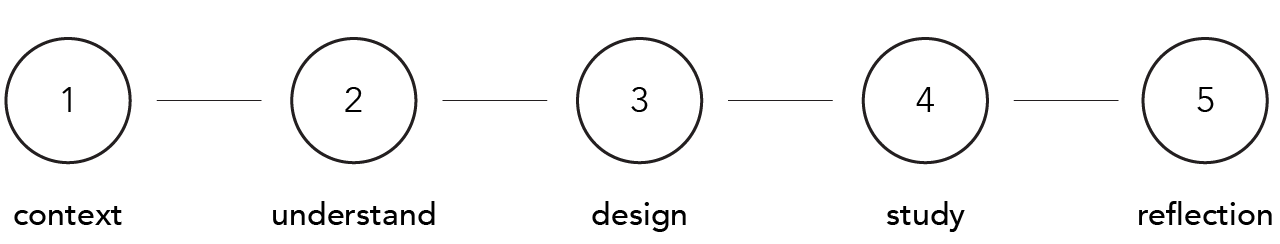
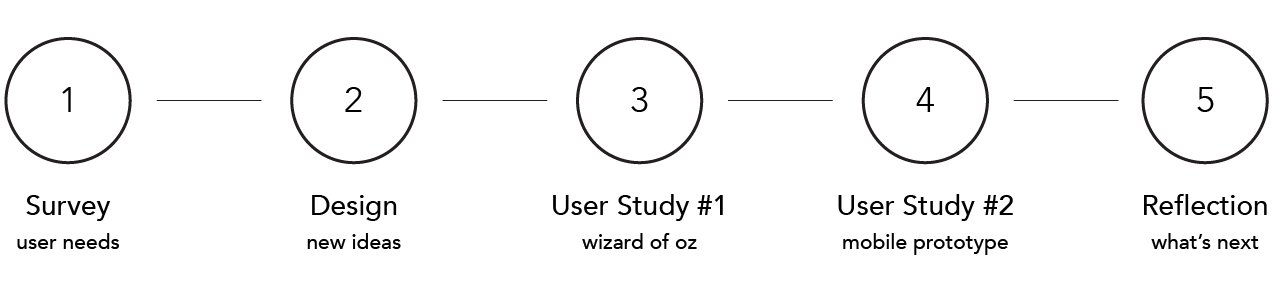
hide crescendo project to make the projects' topics are aligned

diff --git a/src/pages/projects/crescendo/CrescendoDetail.js b/src/pages/projects/crescendo/CrescendoDetail.js
@@ -81,10 +81,10 @@ const CrescendoDetail = () => {
         <div className={styles.sidebar}>
             <ul>
                 <li><a href="#overview" className={activeSection === 'overview' ? styles.active : ''}>0 - overview</a></li>
-                <li><a href="#research" className={activeSection === 'research' ? styles.active : ''}>1 - context</a></li>
-                <li><a href="#empathize" className={activeSection === 'empathize' ? styles.active : ''}>2 - understand</a></li>
-                <li><a href="#design" className={activeSection === 'design' ? styles.active : ''}>3 - design</a></li>
-                <li><a href="#test" className={activeSection === 'test' ? styles.active : ''}>4 - study</a></li>
+                <li><a href="#research" className={activeSection === 'research' ? styles.active : ''}>1 - survey</a></li>
+                <li><a href="#empathize" className={activeSection === 'empathize' ? styles.active : ''}>2 - design</a></li>
+                <li><a href="#design" className={activeSection === 'design' ? styles.active : ''}>3 - user study #1</a></li>
+                <li><a href="#test" className={activeSection === 'test' ? styles.active : ''}>4 - user study #2</a></li>
                 <li><a href="#takeaways" className={activeSection === 'takeaways' ? styles.active : ''}>5 - reflection</a></li>
             </ul>
         </div>
@@ -95,98 +95,72 @@ const CrescendoDetail = () => {
               <div className={styles.overviewContainer}>
                 <div>
                   <h2>Overview</h2>
-                  <p>With the massive proliferation of digital photos, new approaches are needed to enable people to engage with their vast photo archives over time and into the future. Chronoscope is a domestic technology that leverages temporal metadata embedded in digital photos as a resource to reorganize photos and present life patterns more clearly to encourage rich reflection on one's photo history.</p>
+                  <p>Messaging in human communication is not only a carrier of the sender’s intention but also interplay between anticipations on both sides if we see it as an experience-centered design issue. In contrast to using instant messages, we proposed a slow messaging app that progressively reveal messages over a period of time and observe people's reaction to it.</p>
                 </div>
                 <div>
                   <h2>Team</h2>
-                  <h6>Project Lead & Graphics, Software, Electronics</h6>Amy Yo Sue Chen
-                  <h6>Writing & Design Supervisor</h6>William Odom
-                  <h6>Writing Supervisor</h6>Carman Neustaedter
-                  <h6>3D Design & Data Analysis Assistant</h6>Ce Zhong
-                  <h6>Digital Fabrication & Electronics Assistant</h6>Henry Lin
-                  <h6>Electronics Assistant</h6>Tal Amram
+                  <h6>Project Lead & Research, Design, Software</h6>Amy Yo Sue Chen
+                  <h6>Writing & Design Supervisor</h6>Rung-Huei Liang
+                  <h6>Writing & Research Lead</h6>Joe Wen-Chieh Tsai
+                  <h6>Data Analysis Assistant</h6>Sheng-Yang Hsu
                 </div>
               </div>
               <div>
                 <h2>Contribution / Impact</h2>
                 <ul>
-                  <li>Creating innovative photo viewing experience to improve user engagement</li>
-                  <li>Using temporal metadata as design materials to trigger curious exploration of one’s life history</li>
-                  <li>5 research publications, including a journal article, a book chapter, and 3 papers on ACM CHI/DIS</li>
+                  <li>This research found a best level of progression that invites anticipation and curiosity.</li>
+                  <li>This messaging way offered a way to increase the quality of intimate communication.</li>
+                  <li>This work produced 2 research publications, including one with a <b>best paper award</b>.</li>
                 </ul>
+              </div>
+              <LazyLoadImage src={images.singles.messaging.src} alt={images.singles.messaging.alt} className={styles.contextImage} onClick={() => openLightbox(images.singles.messaging.src)} />
+              <h2>Research Context</h2>
+              <div className={styles.researchContainer}>
+                <div>
+                  <h3>Problem Statement</h3>
+                  <p>The fast and concise communication enabled by <b>instant messaging</b> has compelled individuals to convey their feelings and thoughts <b>promptly and respond 'in time'</b>, particularly for those communicating across long distances with timezone differences.</p>
+                </div>
+                <div>
+                  <h3>Research Goal</h3>
+                  <p>We aim to develop <b>new approaches to experiencing messaging systems</b> that enhance and support people's deep and intimate communication with each other.</p>
+                </div>
+              </div>
+              <div>
+                <h3>Qualitative Research Plan</h3>
+                <p>To achieve the research goal, we built a qualitative research plan to understand user needs, explore potential design ideas, and evaluate our new messaging design.</p>
+                <p>The whole plan can be broken down into 5 parts:</p>
+                <LazyLoadImage src={images.singles.imagePlan.src} alt={images.singles.imagePlan.alt} className={styles.planImage} onClick={() => openLightbox(images.singles.imagePlan.src)} />
+              </div>
+              <div className={styles.skillsContainer}>
+                <div>
+                  <h4>research methods</h4>
+                  <ul>
+                    <li>Survey / interview</li>
+                    <li>User testing / log analysis</li>
+                    <li>Inferential statistics / t-test</li>
+                  </ul>
+                </div>
+                <div>
+                  <h4>design tools</h4>
+                  <ul>
+                    <li>Sketch prototyping</li>
+                    <li>Zeplin</li>
+                    <li>Adobe Suite</li>
+                  </ul>
+                </div>
+                <div>
+                  <h4>software engineering</h4>
+                  <ul>
+                    <li>iOS dev (Obj-C/Swift)</li>
+                    <li>Automation Scripts in Adobe Suite</li>
+                  </ul>
+                </div>
               </div>
             </section>
             <section id="research" ref={sectionRefs.current.research}>
-                <CustomSwiper images={images.context} />
-                <h2>1 - Research Context</h2>
-                <div className={styles.researchContainer}>
-                  <div>
-                    <h3>Problem Statement</h3>
-                    <p>The adoption of smartphones over traditional cameras has catalyzed a hyper-accelerated growth of personal photo archives. As digital photos grow, <b>the placeless, spaceless, and formless nature</b> has made them <b>difficult for people to notice and engage</b>.</p>
-                  </div>
-                  <div>
-                    <h3>Research Goal</h3>
-                    <p>To counteract the challenges posed by the vast, often formless nature of digital photo archives, we aim to develop <b>innovative and open-ended interaction methods</b> that engage people to explore their continually expanding collections, fostering <b>a sense of curiosity and discovery</b>.</p>
-                  </div>
-                </div>
-                <div>
-                  <h3>Questions + Plan</h3>
-                  <p><i>Q1: How might meaningful experiences with personal digital photo archives be supported and sustained as they grow, expand, and age over time?</i></p>
-                  <p><i>Q2: What opportunities exist for metadata to be leveraged as a design resource that supports new ways of experiencing the trajectory of digital photos one has accumulated in their life?</i></p>
-                  <p>To answer these questions, we built a qualitative research plan to understand user needs and explore potential design ideas. Based on the research results, we kick started the Chronoscope design process.</p>
-                </div>
-                <div className={styles.skillsContainer}>
-                  <div>
-                    <h4>research methods</h4>
-                    <ul>
-                      <li>Contextual inquiry</li>
-                      <li>Field study / interview</li>
-                      <li>Affinity mapping</li>
-                    </ul>
-                  </div>
-                  <div>
-                    <h4>graphic design tools</h4>
-                    <ul>
-                      <li>Miro brainstorming</li>
-                      <li>Paper wireframing</li>
-                      <li>Adobe Suite</li>
-                    </ul>
-                  </div>
-                  <div>
-                    <h4>3D design tools</h4>
-                    <ul>
-                      <li>modeling with Rhino</li>
-                      <li>rendering with Keyshot</li>
-                      <li>printing with Ultimaker Cura</li>
-                    </ul>
-                  </div>
-                </div>
-                <div className={styles.skillsContainer}>
-                  <div>
-                    <h4>documentation</h4>
-                    <ul>
-                      <li>Google Suite</li>
-                      <li>Otter.ai</li>
-                      <li>Microsoft Word / LaTeX</li>
-                    </ul>
-                  </div>
-                  <div>
-                    <h4>electronics design</h4>
-                    <ul>
-                      <li>Arduino prototyping</li>
-                      <li>Raspberry Pi production</li>
-                      <li>PCB design (Frizting)</li>
-                    </ul>
-                  </div>
-                  <div>
-                    <h4>software engineering</h4>
-                    <ul>
-                      <li>prototyping in Obj-C / Swift</li>
-                      <li>Python production (PIL/Pillow, PyQt5, NumPy)</li>
-                    </ul>
-                  </div>
-                </div>
-                <LazyLoadImage src={images.singles.imagePlan.src} alt={images.singles.imagePlan.alt} className={styles.planImage} onClick={() => openLightbox(images.singles.imagePlan.src)} />
+              <LazyLoadImage src={images.singles.imageInquiry.src} alt={images.singles.imageInquiry.alt} className={styles.focusGroupImage} onClick={() => openLightbox(images.singles.imageInquiry.src)} />
+              <h2>1 - Survey for People's Interest in Slow Messaging</h2>
+
             </section>
             <section id="empathize" ref={sectionRefs.current.empathize}>
                 <LazyLoadImage src={images.singles.imageInquiry.src} alt={images.singles.imageInquiry.alt} className={styles.focusGroupImage} onClick={() => openLightbox(images.singles.imageInquiry.src)} />

diff --git a/src/pages/projectListData.js b/src/pages/projectListData.js
@@ -24,13 +24,13 @@ const projectsData = [
     linkPath: '/projects/chronoscope',
     tags: ['photos', 'tangible', 'field study', 'all'],
   },
-  {
-    title: 'CrescendoMessage',
-    description: 'Investigating new forms of photo sharing between loved ones with an aim to enrich intimate communication.',
-    imageUrl: image3,
-    linkPath: '/projects/crescendo',
-    tags: ['photos', 'mobile', 'field study', 'messaging', 'all'],
-  },
+  // {
+  //   title: 'CrescendoMessage',
+  //   description: 'Investigating new forms of photo sharing between loved ones with an aim to enrich intimate communication.',
+  //   imageUrl: image3,
+  //   linkPath: '/projects/crescendo',
+  //   tags: ['photos', 'mobile', 'field study', 'messaging', 'all'],
+  // },
   {
     title: 'Womany',
     description: 'Unlocking self-growth and creativity: the news app redesigned for readers interested in gender equality.',
@@ -66,13 +66,13 @@ const projectsData = [
     linkPath: '/projects/olly',
     tags: ['audio', 'tangible', 'field study', 'all'],
   },
-  {
-    title: 'Slow Game',
-    description: 'Conceptualizing time alternatively by playing the Snake game one step every 18 hours.',
-    imageUrl: image9,
-    linkPath: '/projects/slow-game',
-    tags: ['temporality', 'tangible', 'research through design', 'all'],
-  }
+  // {
+  //   title: 'Slow Game',
+  //   description: 'Conceptualizing time alternatively by playing the Snake game one step every 18 hours.',
+  //   imageUrl: image9,
+  //   linkPath: '/projects/slow-game',
+  //   tags: ['temporality', 'tangible', 'research through design', 'all'],
+  // }
 ];
 
 export default projectsData;

diff --git a/src/pages/projects/crescendo/CrescendoImages.js b/src/pages/projects/crescendo/CrescendoImages.js
@@ -1,12 +1,13 @@
-import imageProject from './img/Fig1.png'
+import imageProject from './img/1.jpg'
+import imageMessaging from './img/messaging.jpg'
 import imagePlan from './img/plan.png'
 import imageInquiry from './img/inquiry.png'
 import imageMiro from './img/Fig1a.jpg'
 import imageForm from './img/form.png'
 
-import context1 from './img/context1.jpg'
+import context1 from './img/crystalized.gif'
 import context2 from './img/context2.jpg'
-import context3 from './img/context3.gif'
+import context3 from './img/context1.jpg'
 
 import ideation0 from './img/home.png'
 import ideation1 from './img/pinterest.png'
@@ -51,6 +52,7 @@ const images = {
 
   singles: {
     imageProject:    { src: imageProject, alt: 'PhotoClock Design' },
+    messaging:       { src: imageMessaging, alt: 'instant messaging'},
     imagePlan:       { src: imagePlan, alt: 'PhotoClock Design' },
     imageInquiry:    { src: imageInquiry, alt: 'PhotoClock Use Scenario' },
     imageMiro:       { src: imageMiro, alt: 'PhotoClock Use Scenario' },

diff --git a/src/pages/Projects.js b/src/pages/Projects.js
@@ -82,7 +82,7 @@ const Projects = () => {
         <ScrollIndicator />
         <div className={styles["projects-container"]}>
           <div className={`${styles.project} ${styles.intro}`}>
-            <h5>↳  9 FEATURED PROJECTS</h5>
+            <h5>↳  {data.length} FEATURED PROJECTS</h5>
             <p>My works surrounds <b>human-photo interaction</b>, <b>UX design</b>, and <b>domestic artifacts</b>.</p>
             <p>Recently, I have started to incorporate <b>generative AI</b> to foster more <b>enriched and meaningful interactions</b> with personal data.</p>
             {/* Tags section */}

diff --git a/src/pages/projects/crescendo/CrescendoDetail.module.css b/src/pages/projects/crescendo/CrescendoDetail.module.css
@@ -65,9 +65,9 @@
 
 .crescendo .contextImage {
   width: 100%;
-  height: auto;
+  height: 300px;
   object-fit: cover;
-  margin-top: 20px;
+  margin-top: 200px;
 }
 
 .crescendo .researchContainer {
@@ -88,6 +88,7 @@
   height: auto;
   object-fit: cover;
   margin-top: 20px;
+  margin-bottom: 50px;
 }
 
 .crescendo .focusGroupImage,
